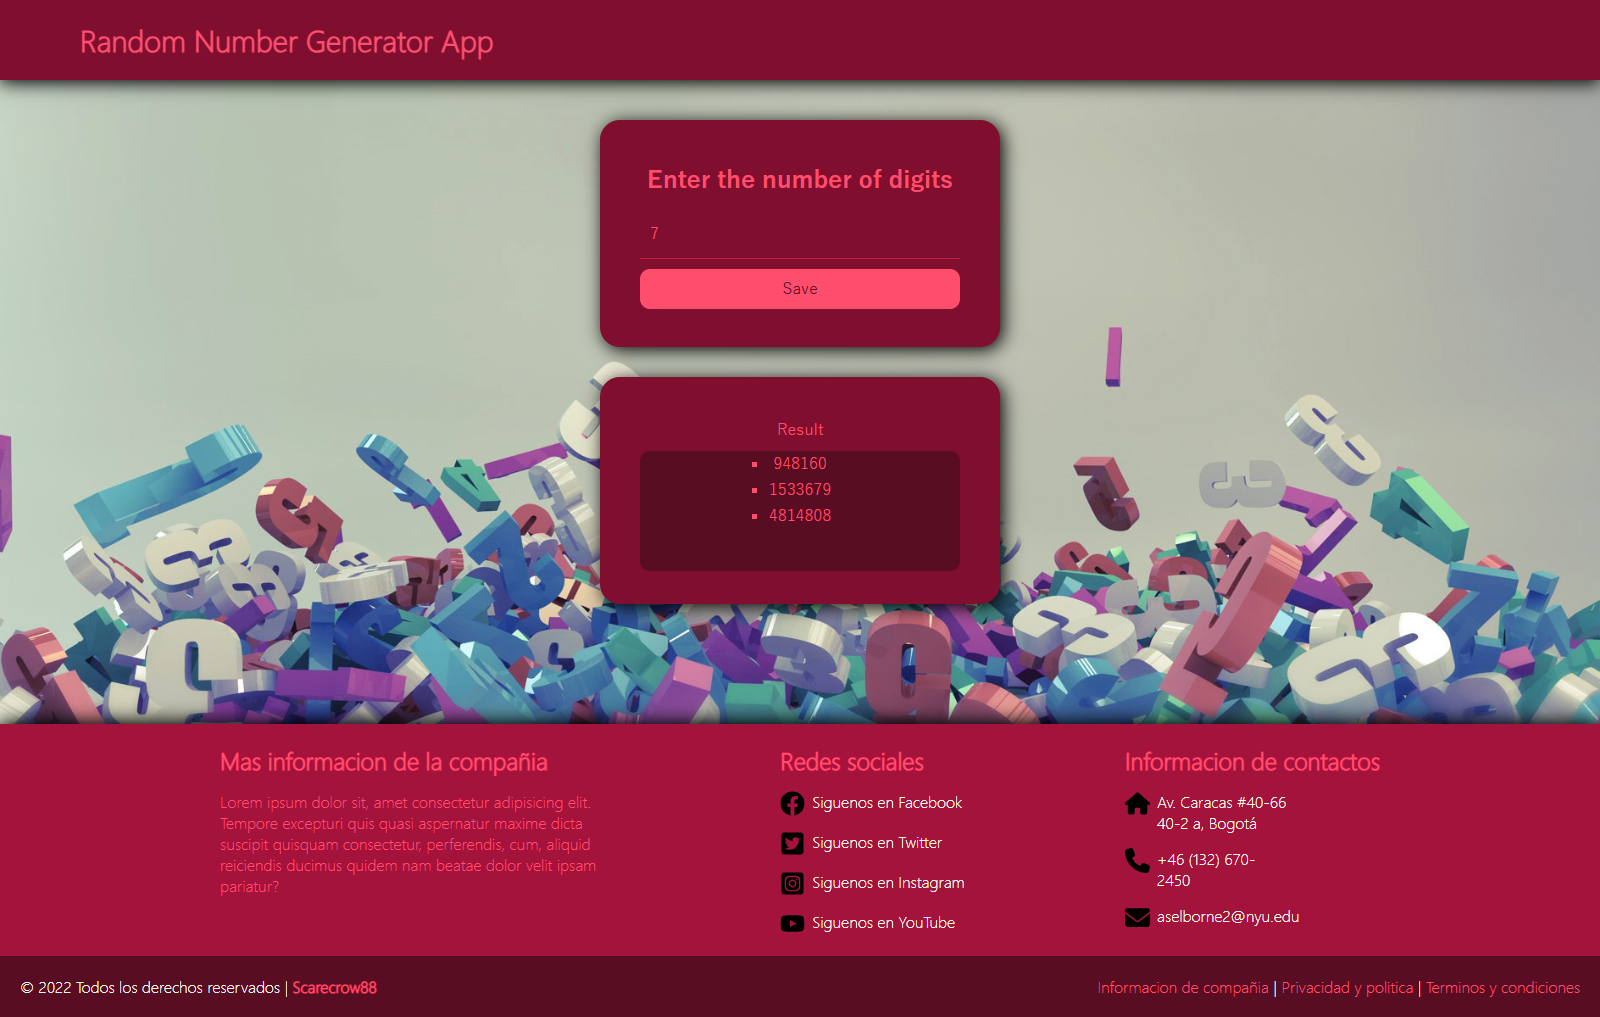
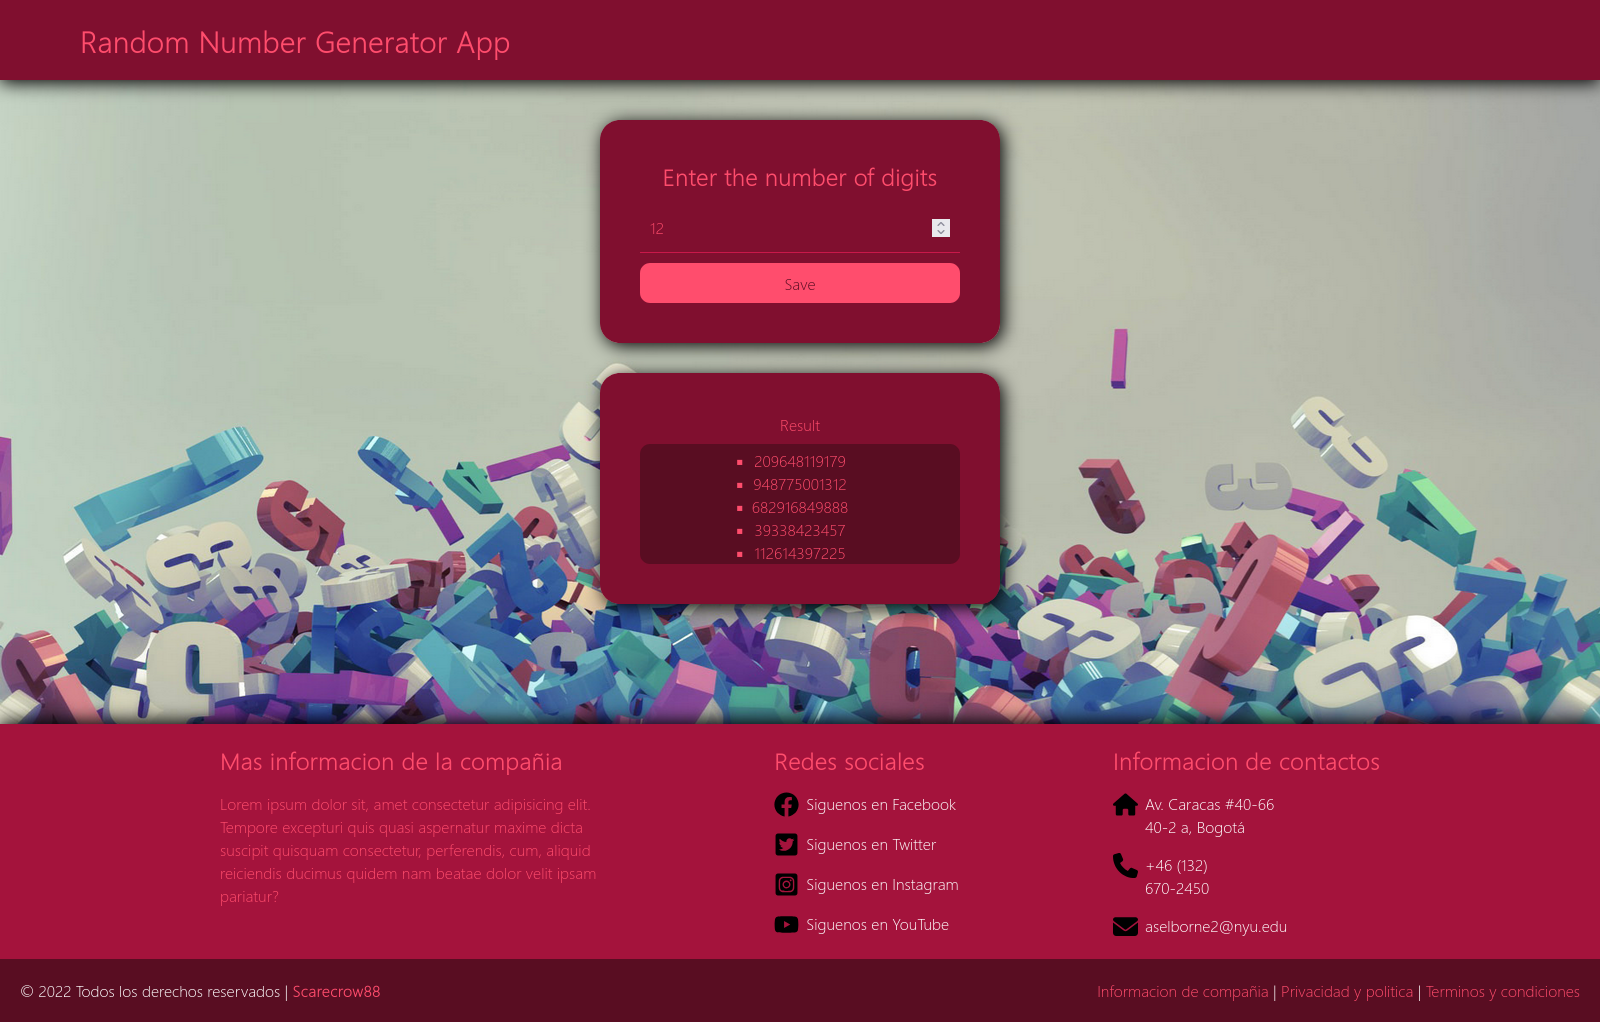
repo: JavaScript, HTML, CSS

diff --git a/css/formContent.css b/css/formContent.css
@@ -12,15 +12,15 @@ main {
 .databox {
     width: 400px;
     height: max-content;
-    background-color: #800f2f;
+    background-color: var(--second-color);
     padding: 40px;
     margin: 30px auto;
     margin-top: 20px;
     font-family: 'Segoe UI Light';
     text-align: center;
-    color: #ff4d6d;
+    color: var(--first-color);
     border-radius: 20px;
-    box-shadow: 3px 3px 18px black;
+    box-shadow: 3px 3px 18px var(--color-shadow);
 }
 .textfield {
     width: 100%;
@@ -31,30 +31,30 @@ main {
     padding: 10px;
     font-family: 'Segoe UI Light';
     font-size: 16px;
-    color: #ff4d6d;
+    color: var(--first-color);
     border: none;
     border-bottom: 1px solid;
-    border-color: #c9184a;
+    border-color: var(--fourth-color);
     outline: none;
 }
 .textfield::placeholder {
-    color: #590d22;
+    color: var(--fifth-color);
     font-weight: bolder;
 }
 .formbutton {
     width: 100%;
     height: 40px;
-    background-color: #ff4d6d;
+    background-color: var(--first-color);
     font-family: 'Segoe UI Light';
     font-size: 16px;
-    color: #590d22;
+    color: var(--fifth-color);
     border: none;
     border-radius: 10px;
 }
 .formbutton:hover {
-    background-color: #590d22;
+    background-color: var(--fifth-color);
     transition: 0.3s;
-    color: #ff4d6d;
+    color: var(--first-color);
     cursor: pointer;
 }
 @media screen and (max-width: 768px) {
@@ -67,7 +67,6 @@ main {
         margin: 10px auto;
         padding: 24px 15px;
     }
-    
     #formtask h2 {
         font-size: 1.2rem;
     }

diff --git a/css/footerContent.css b/css/footerContent.css
@@ -6,10 +6,10 @@
 footer {
     width: 100%;
     margin-top: 40px;
-    background-color: #a4133c;
-    color: #fffbea;
+    background-color: var(--third-color);
+    color: var(--text-color);
     font-family: 'Segoe UI Light';
-    box-shadow: 0 -3px 18px black;
+    box-shadow: 0 -3px 18px var(--color-shadow);
 }
 .fullfooterbox {
     width: 100%;
@@ -26,18 +26,19 @@ footer {
 }
 .footercol1 h1 {
     font-size: 24px;
-    color: #ff4d6d;
+    color: var(--first-color);
+    
 }
 .footercol1 p {
     margin-top: 15px;
-    color: #ff4d6d;
+    color: var(--first-color);
 }
 .footercol2 {
     max-width: 400px;
 }
 .footercol2 h1 {
     font-size: 24px;
-    color: #ff4d6d;
+    color: var(--first-color);
 }
 .footerrow {
     margin-top: 15px;
@@ -51,7 +52,7 @@ footer {
 }
 .footercol3 h1 {
     font-size: 24px;
-    color: #ff4d6d;
+    color: var(--first-color);
 }
 .footercol3 div {
     margin-top: 15px;
@@ -63,18 +64,18 @@ footer {
 }
 .containerfooter {
     width: 100%;
-    background-color: #590d22;
+    background-color: var(--fifth-color);
     display: flex;
     justify-content: space-between;
     padding: 20px;
 }
 .copyright a {
-    color: #ff4d6d;
+    color: var(--first-color);
     text-decoration: none;
     font-weight: bold;
 }
 .information a {
-    color: #ff4d6d;
+    color: var(--first-color);
     text-decoration: none;
 }
 @media screen and (max-width: 1070px) {

diff --git a/css/navResponsiveContent.css b/css/navResponsiveContent.css
@@ -18,17 +18,17 @@ body {
     width: 10px;
 }
 .bodybox::-webkit-scrollbar-track {
-    background-color: #ff4d6d;;
+    background-color: var(--scrollbar-track);
     border-radius: 5px;
 }
 .bodybox::-webkit-scrollbar-thumb {
-    background-color: #590d22;
+    background-color: var(--scrollbar-thumb);
     border-radius: 5px;
 }
 .navheader {
     height: 80px;
-    background-color: #800f2f;
-    box-shadow: 0 3px 18px black;
+    background-color: var(--second-color);
+    box-shadow: 0 3px 18px var(--color-shadow);
     position: fixed;
     width: 100%;
     top: 0;
@@ -42,7 +42,7 @@ body {
     max-width: 1292px;
 }
 .navlogo, .navmenuitem a {
-    color: #ff4d6d;
+    color: var(--first-color);
     text-decoration: none;
 }
 .navlogo {

diff --git a/css/resultContent.css b/css/resultContent.css
@@ -1,9 +1,14 @@
+* {
+    margin: 0;
+    padding: 0;
+    box-sizing: border-box;
+}
 .databox p {
     margin-bottom: 8px;
 }
 .resultpanel {
     height: 120px;
-    background-color: #590d22;
+    background-color: var(--fifth-color);
     display: flex;
     justify-content: center;
     align-items: center;
@@ -19,10 +24,10 @@
     width: 10px;
 }
 .resultpanel::-webkit-scrollbar-track {
-    background-color: #ff4d6d;
+    background-color: var(--scrollbar-track-color);
     border-radius: 5px;
 }
 .resultpanel::-webkit-scrollbar-thumb {
-    background-color: #a4133c;
+    background-color: var(--scrollbar-thumb-color);
     border-radius: 5px;
 }

diff --git a/index.html b/index.html
@@ -5,6 +5,7 @@
     <meta http-equiv="X-UA-Compatible" content="IE=edge">
     <meta name="viewport" content="width=device-width, initial-scale=1.0">
     <title>Random Number Generator App</title>
+    <link rel="stylesheet" href="./css/theme.css">
     <link rel="stylesheet" href="./css/navResponsiveContent.css">
     <link rel="stylesheet" href="./css/formContent.css">
     <link rel="stylesheet" href="./css/resultContent.css">

diff --git a/css/theme.css b/css/theme.css
@@ -1,0 +1,11 @@
+:root {
+    --first-color: #ff4d6d;
+    --second-color: #800f2f;
+    --third-color: #a4133c;
+    --fourth-color: #c9184a;
+    --fifth-color: #590d22;
+    --text-color: #ffffff;
+    --color-shadow: black;
+    --scrollbar-track: #ff4d6d;
+    --scrollbar-thumb: #590d22;
+}
